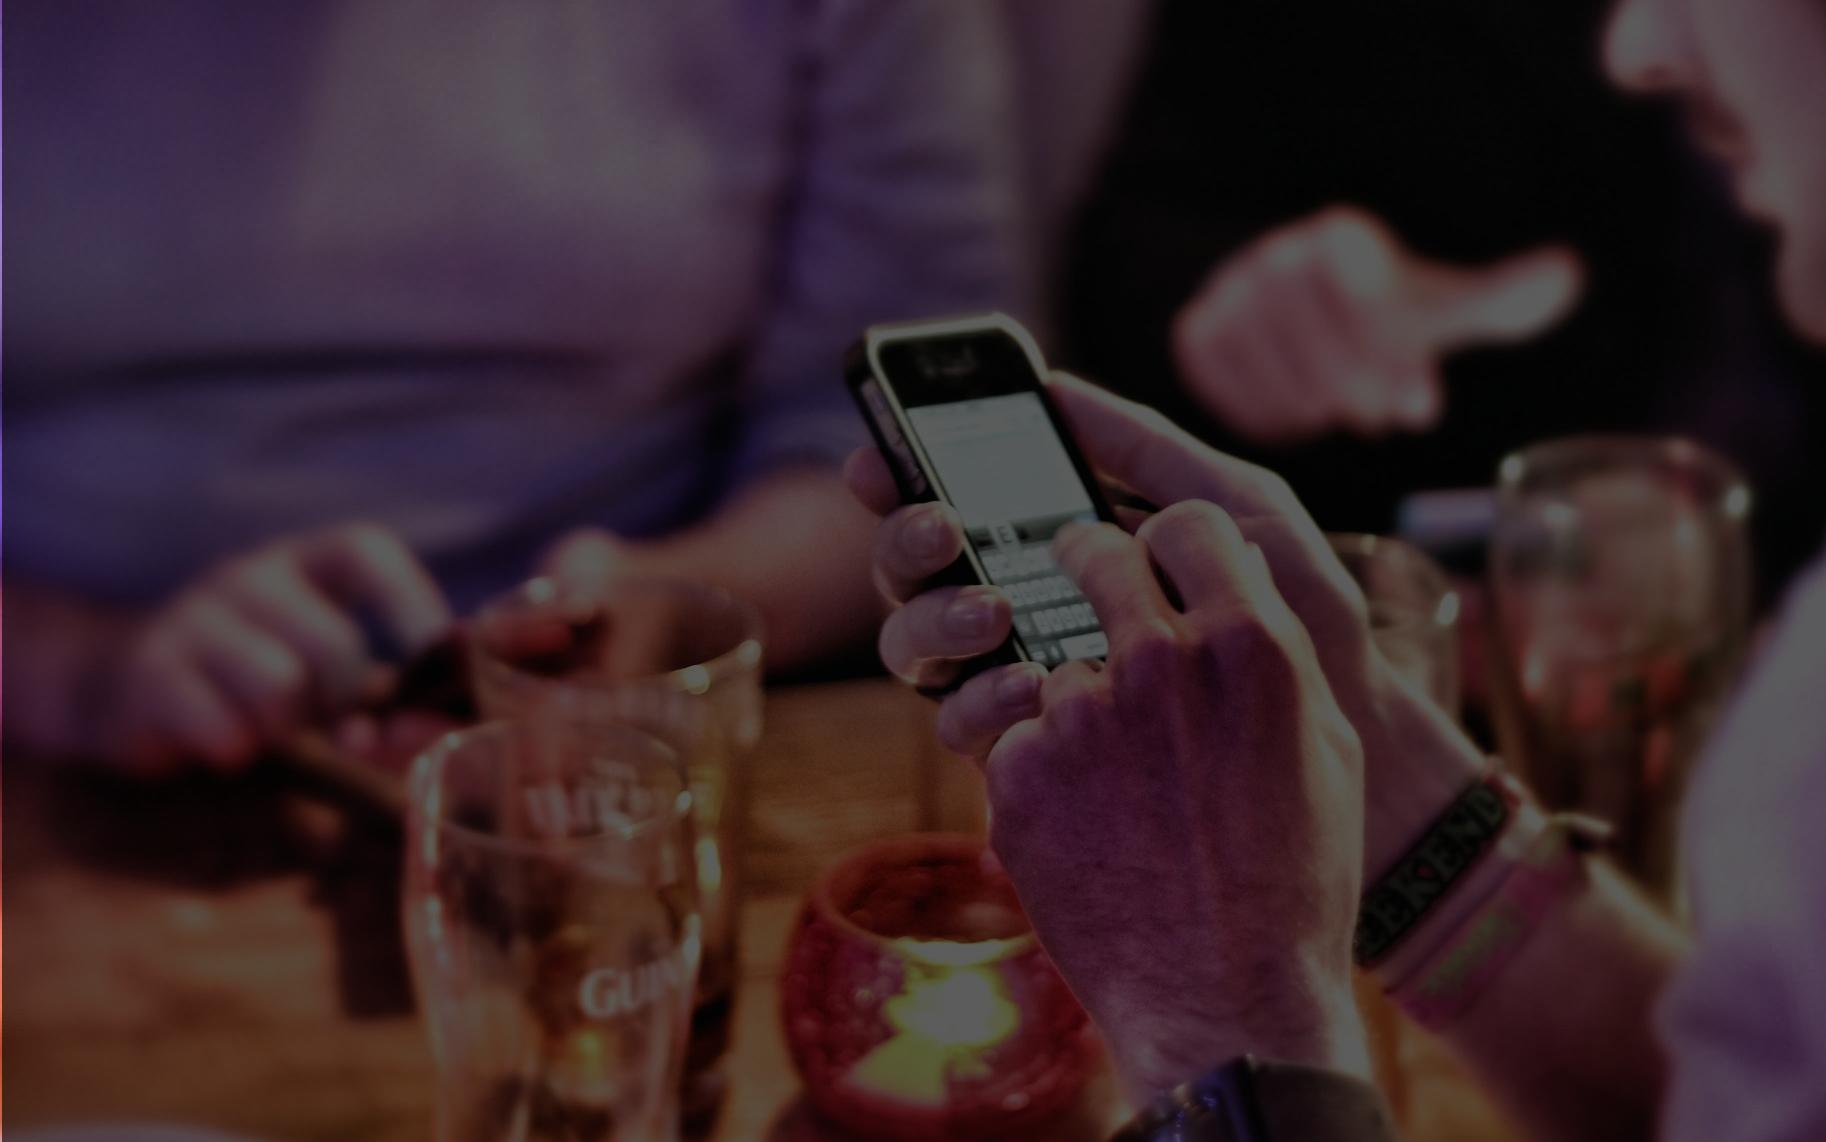
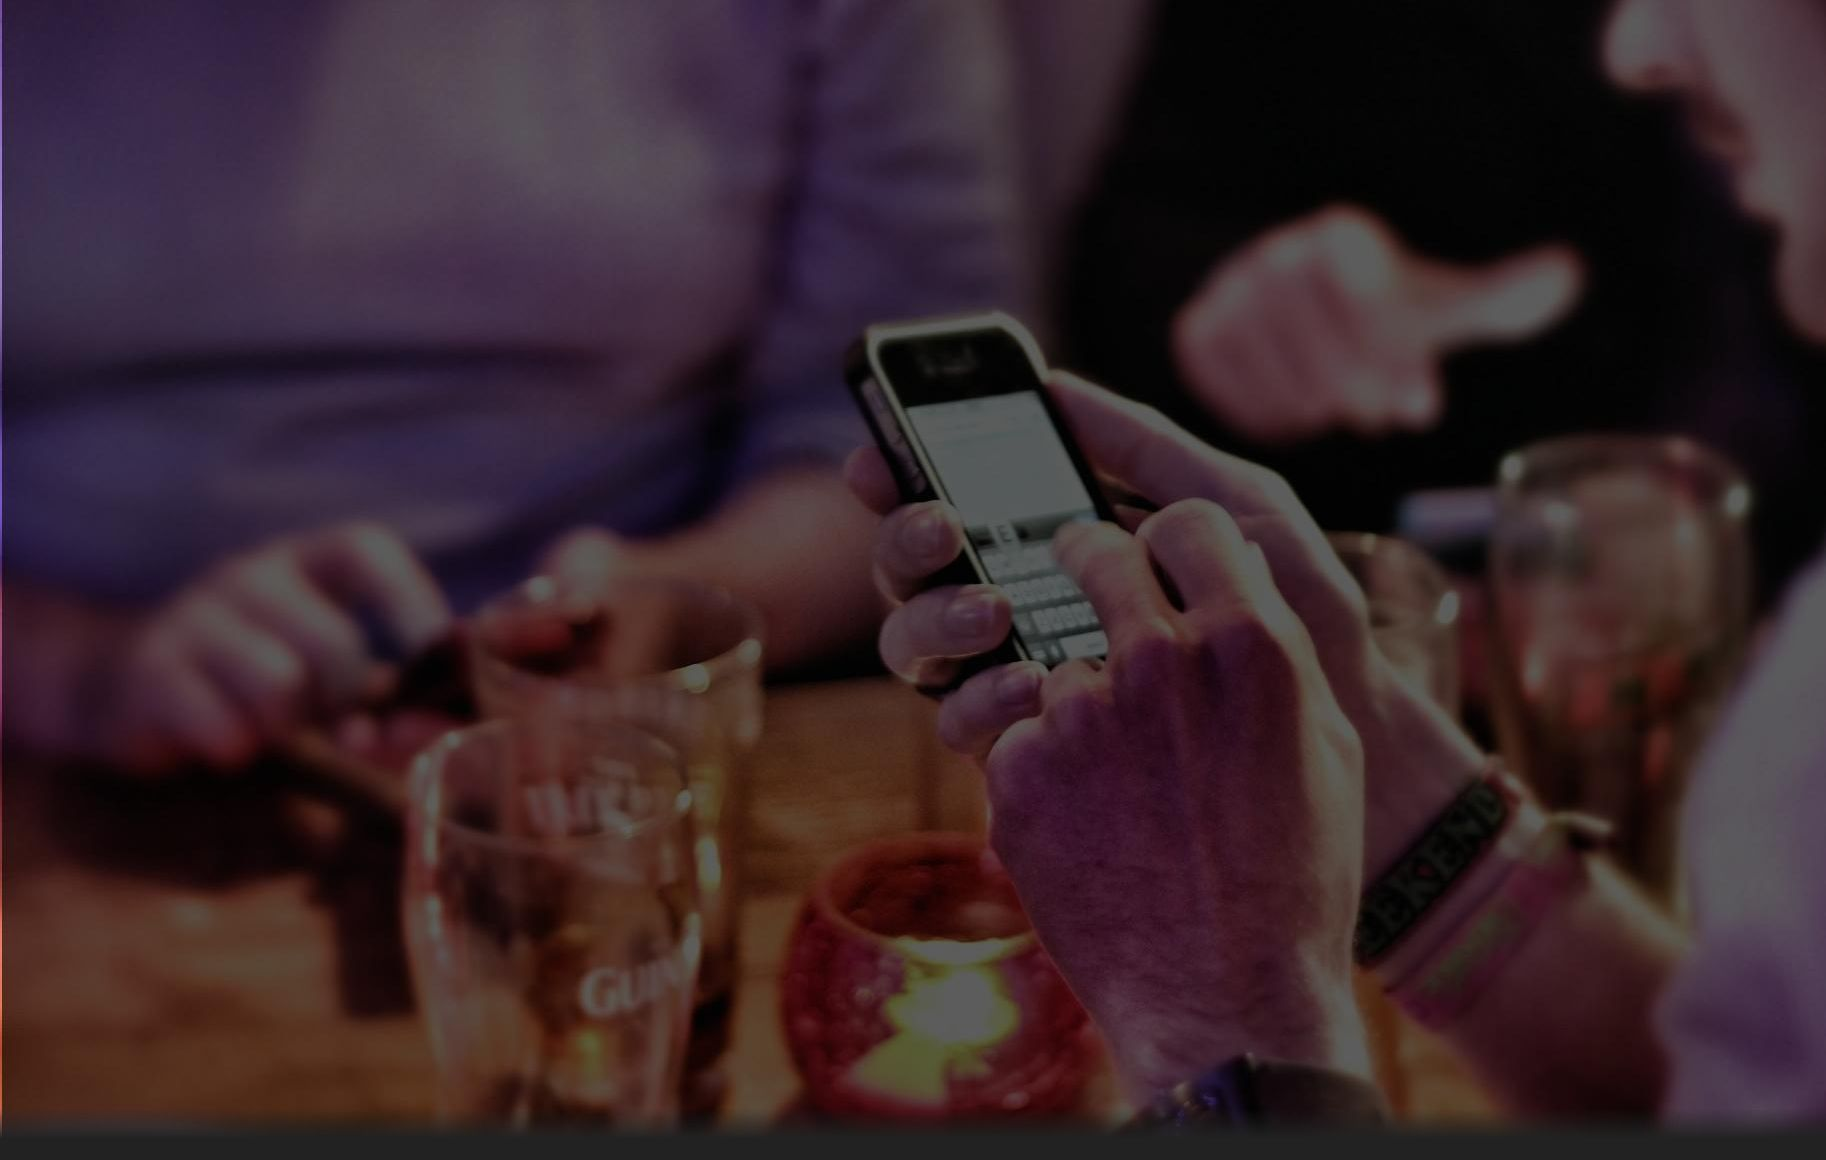
minor frontpage changes

diff --git a/templates/neverever/index.html b/templates/neverever/index.html
@@ -8,7 +8,6 @@
 {% endblock %}
 
 {% block body_block %}
-<div class="index-bg">
     <div class="page-header text-center">
         <h1>never/<wbr><b>ever</b></h1>
         <p class="lead">Play never have I ever. Wherever you are.</p>
@@ -21,7 +20,7 @@
                 </div>
                 <div class="row row-spacing">
                     <a href="/new-statement" class="btn btn-default btn-lg center-block btn-ne-main">New Statement</a>
-                </div><br>
+                </div><br><br>
         </div>
     </div>
 
@@ -52,7 +51,6 @@
             </p>
         </div>
     </footer>
-</div>
 {% endblock %}
 
 {% block footer_block %}

diff --git a/static/css/index.css b/static/css/index.css
@@ -1,6 +1,10 @@
-.index-bg{
-	background:url('../img/index_banner.jpg') no-repeat center center;
+body {
+    background:url('../img/index_banner.jpg') no-repeat center center;
 	background-size:cover;
+}
+
+html {
+    background-color: #222222;
 }
 
 .lead,h1 {
@@ -9,6 +13,7 @@
 
 h1 {
     font-size: 100px;
+    line-height:75%;
 }
 
 .navbar {
